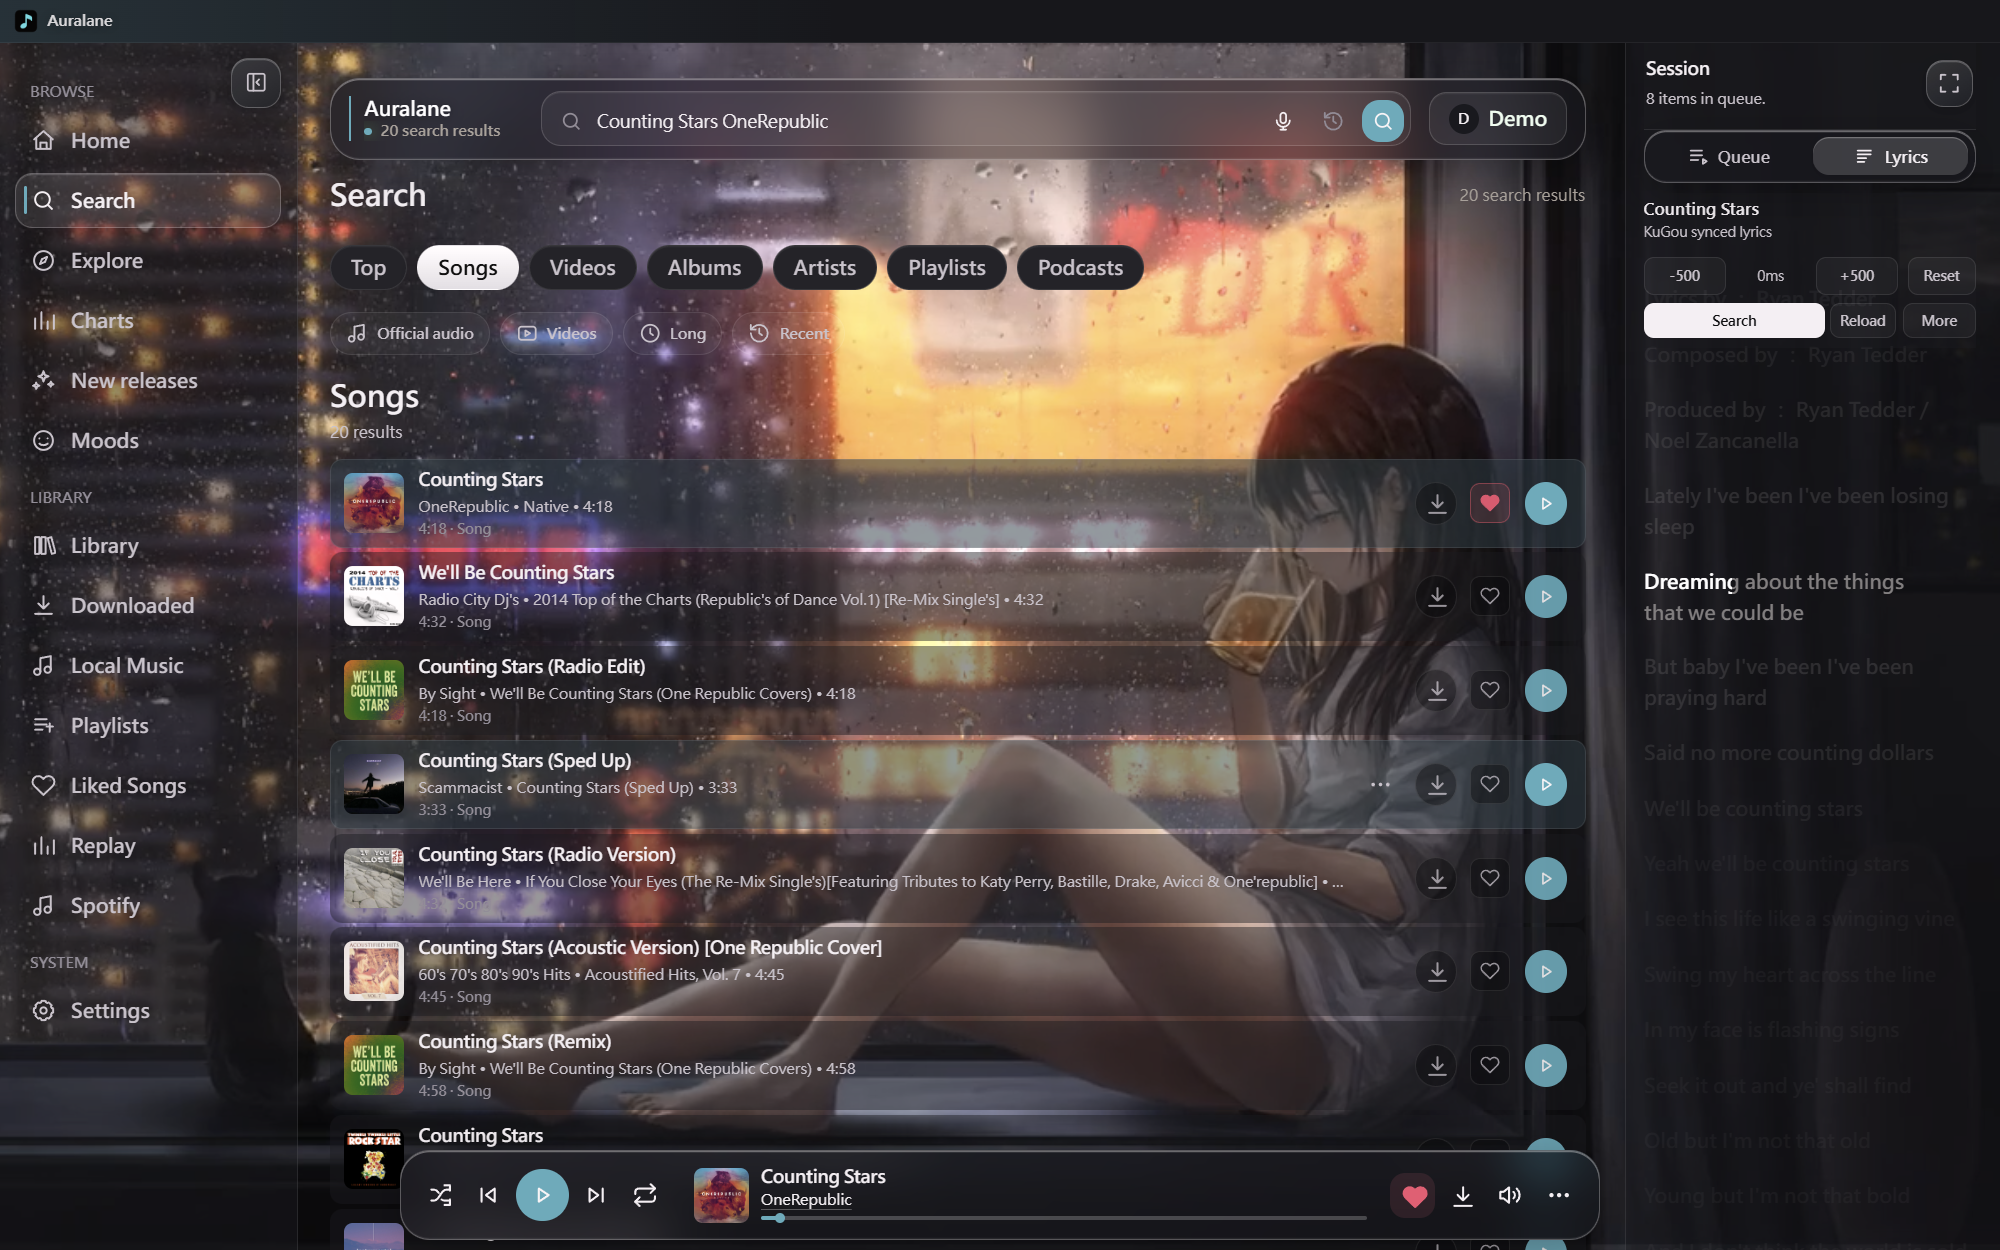
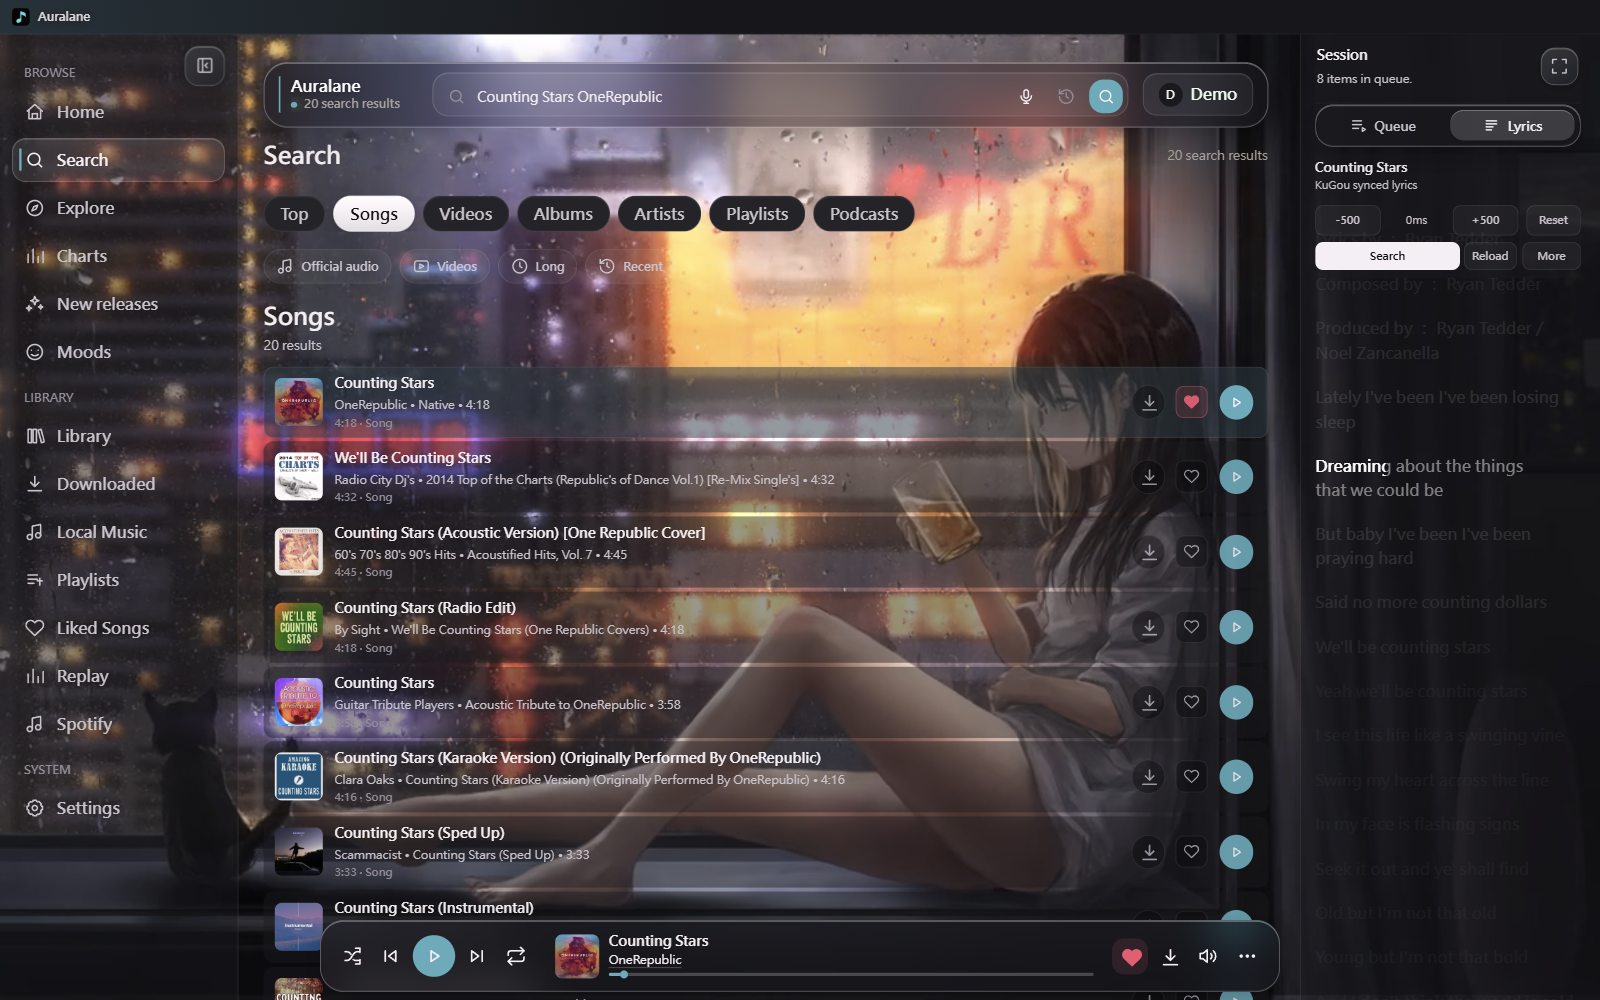
Refresh anonymous gallery and limit video to the background demo

diff --git a/scripts/capture-release-screenshots.js b/scripts/capture-release-screenshots.js
@@ -8,6 +8,7 @@ async function main() {
     const page = await app.firstWindow();
     await page.waitForFunction(() => typeof state !== "undefined" && state.queueHydrated && state.performanceTools && state.workspaceAppearance, null, { timeout: 60000 });
     await app.evaluate(({ BrowserWindow }) => { const w = BrowserWindow.getAllWindows().find(w => w.getTitle() === "Auralane"); w.webContents.setZoomFactor(1); w.setContentSize(1600, 1000); });
+    await page.setViewportSize({ width:1600, height:1000 });
     const summary = await page.evaluate(async () => {
       els.audio.pause(); state.playing = false; state.settings.smartQueue = false;
       state.settings.lyricsAutoTranslate = false; state.settings.lyricsAutoRomanize = false;
@@ -16,6 +17,7 @@ async function main() {
       applyInterfaceLanguage("en", false);
       state.settings.material = "glass"; state.settings.reduceTransparency = false;
       state.settings.glassTransparency = 55; state.workspaceAppearance.refresh();
+      if (state.performanceTools.getSettings().artworkUrl) state.performanceTools.updateSettings({ video:true });
       document.documentElement.dataset.colorScheme = "dark";
       applyThemeColor([76, 173, 189], false);
       const result = await window.metro.search({ query: "Counting Stars OneRepublic", filter: "songs" });
@@ -43,6 +45,7 @@ async function main() {
     console.log("Live screenshot data:", JSON.stringify(summary));
     const directory = path.join(__dirname, "../docs/screenshots");
     const capture = async name => {
+      if (process.env.CAPTURE_ONLY && process.env.CAPTURE_ONLY !== name) return;
       await page.waitForTimeout(900);
       await page.evaluate(() => {
         els.loginLabel.textContent = "Demo";
@@ -58,11 +61,25 @@ async function main() {
       await page.screenshot({ path:path.join(directory, name) }); console.log("Captured anonymous", name);
     };
     await capture("10-liquid-glass-background.png");
-    await page.evaluate(() => { state.settings.lyricsFullscreenBackground = "custom"; setLyricsExpanded(true); });
-    await capture("11-focus-custom-background.png");
+    if (process.argv.includes("--record-demo")) {
+      const fs = require("node:fs/promises"), os = require("node:os");
+      const frames = await fs.mkdtemp(path.join(os.tmpdir(), "auralane-demo-"));
+      for (let index = 0; index < 16; index++) {
+        await page.waitForTimeout(125);
+        await page.screenshot({ path:path.join(frames, `frame-${String(index).padStart(3, "0")}.png`) });
+      }
+      require("node:child_process").execFileSync(process.env.FFMPEG_PATH || "ffmpeg", ["-y", "-framerate", "8", "-i", path.join(frames, "frame-%03d.png"), "-filter_complex", "[0:v]scale=960:-1:flags=lanczos,split[a][b];[a]palettegen=max_colors=256[p];[b][p]paletteuse=dither=sierra2_4a", "-loop", "0", path.join(directory, "15-liquid-glass-demo.gif")], { stdio:"pipe" });
+      console.log("Captured anonymous video-background GIF");
+    }
+    await page.evaluate(() => {
+      state.performanceTools.updateSettings({ video:false });
+      state.settings.lyricsFullscreenBackground = "theme";
+      setLyricsExpanded(true);
+    });
+    await capture("11-focus-lyrics.png");
     await page.evaluate(() => { state.lyricsShareSelection = new Set([releaseScreenshotIndex, releaseScreenshotIndex + 1]); return shareLyricsCard(); });
     await capture("12-lyric-card-editor.png");
-    await page.evaluate(() => { document.querySelector('.lyrics-card-dialog')?.close(); setLyricsExpanded(false); state.settings.material = "standard"; state.workspaceAppearance.refresh(); document.documentElement.dataset.colorScheme = "light"; });
+    await page.evaluate(() => { document.querySelector('.lyrics-card-dialog')?.close(); setLyricsExpanded(false); state.settings.material = "standard"; state.workspaceAppearance.refresh(); AuralaneLyricColors.apply({ enabled:false }); document.documentElement.dataset.colorScheme = "light"; });
     await capture("13-standard-light.png");
     await page.evaluate(() => { state.settings.material = "glass"; document.documentElement.dataset.colorScheme = "dark"; state.workspaceAppearance.refresh(); switchView("settings"); });
     await page.locator('.workspace-settings-tabs').getByRole('button', { name:'Appearance', exact:true }).click();

diff --git a/README.md b/README.md
@@ -50,19 +50,23 @@ Unsigned macOS builds may require using **Open** from Finder's context menu on f
 
 ## Screenshots
 
-Captured in the running Electron app using live Counting Stars search/lyrics results. Account names and avatars are anonymized. The rain-window video is a user-selected background, not a bundled asset or a hosted video supplied by Auralane.
+Captured in the running Electron app using live Counting Stars search/lyrics results. Account names and avatars are anonymized. Only the custom-background introduction below enables the rain-window video; other screenshots have video backgrounds disabled. The video is user-selected, not a bundled asset or a hosted video supplied by Auralane.
 
 ### Dark Liquid Glass and a custom video background
 
 Clear media in the main area, translucent controls and song rows, a resizable Session panel, and the compact glass transport.
 
+![Animated dark Liquid Glass demo with an anonymous account and the selected video background](docs/screenshots/15-liquid-glass-demo.gif)
+
+Full-resolution screenshot:
+
 ![Dark Liquid Glass with a custom rain-window video and Counting Stars](docs/screenshots/10-liquid-glass-background.png)
 
-### Immersive lyrics with the same background
+### Immersive lyrics
 
 Select Song, Theme, Plain or Custom in the expanded lyrics display controls. Custom retains the configured image/video; changing this selection does not remove your main-window background.
 
-![Full-screen Counting Stars lyrics with the custom video background](docs/screenshots/11-focus-custom-background.png)
+![Full-screen Counting Stars lyrics with a theme background and video disabled](docs/screenshots/11-focus-lyrics.png)
 
 ### Live lyric-card editor
 
